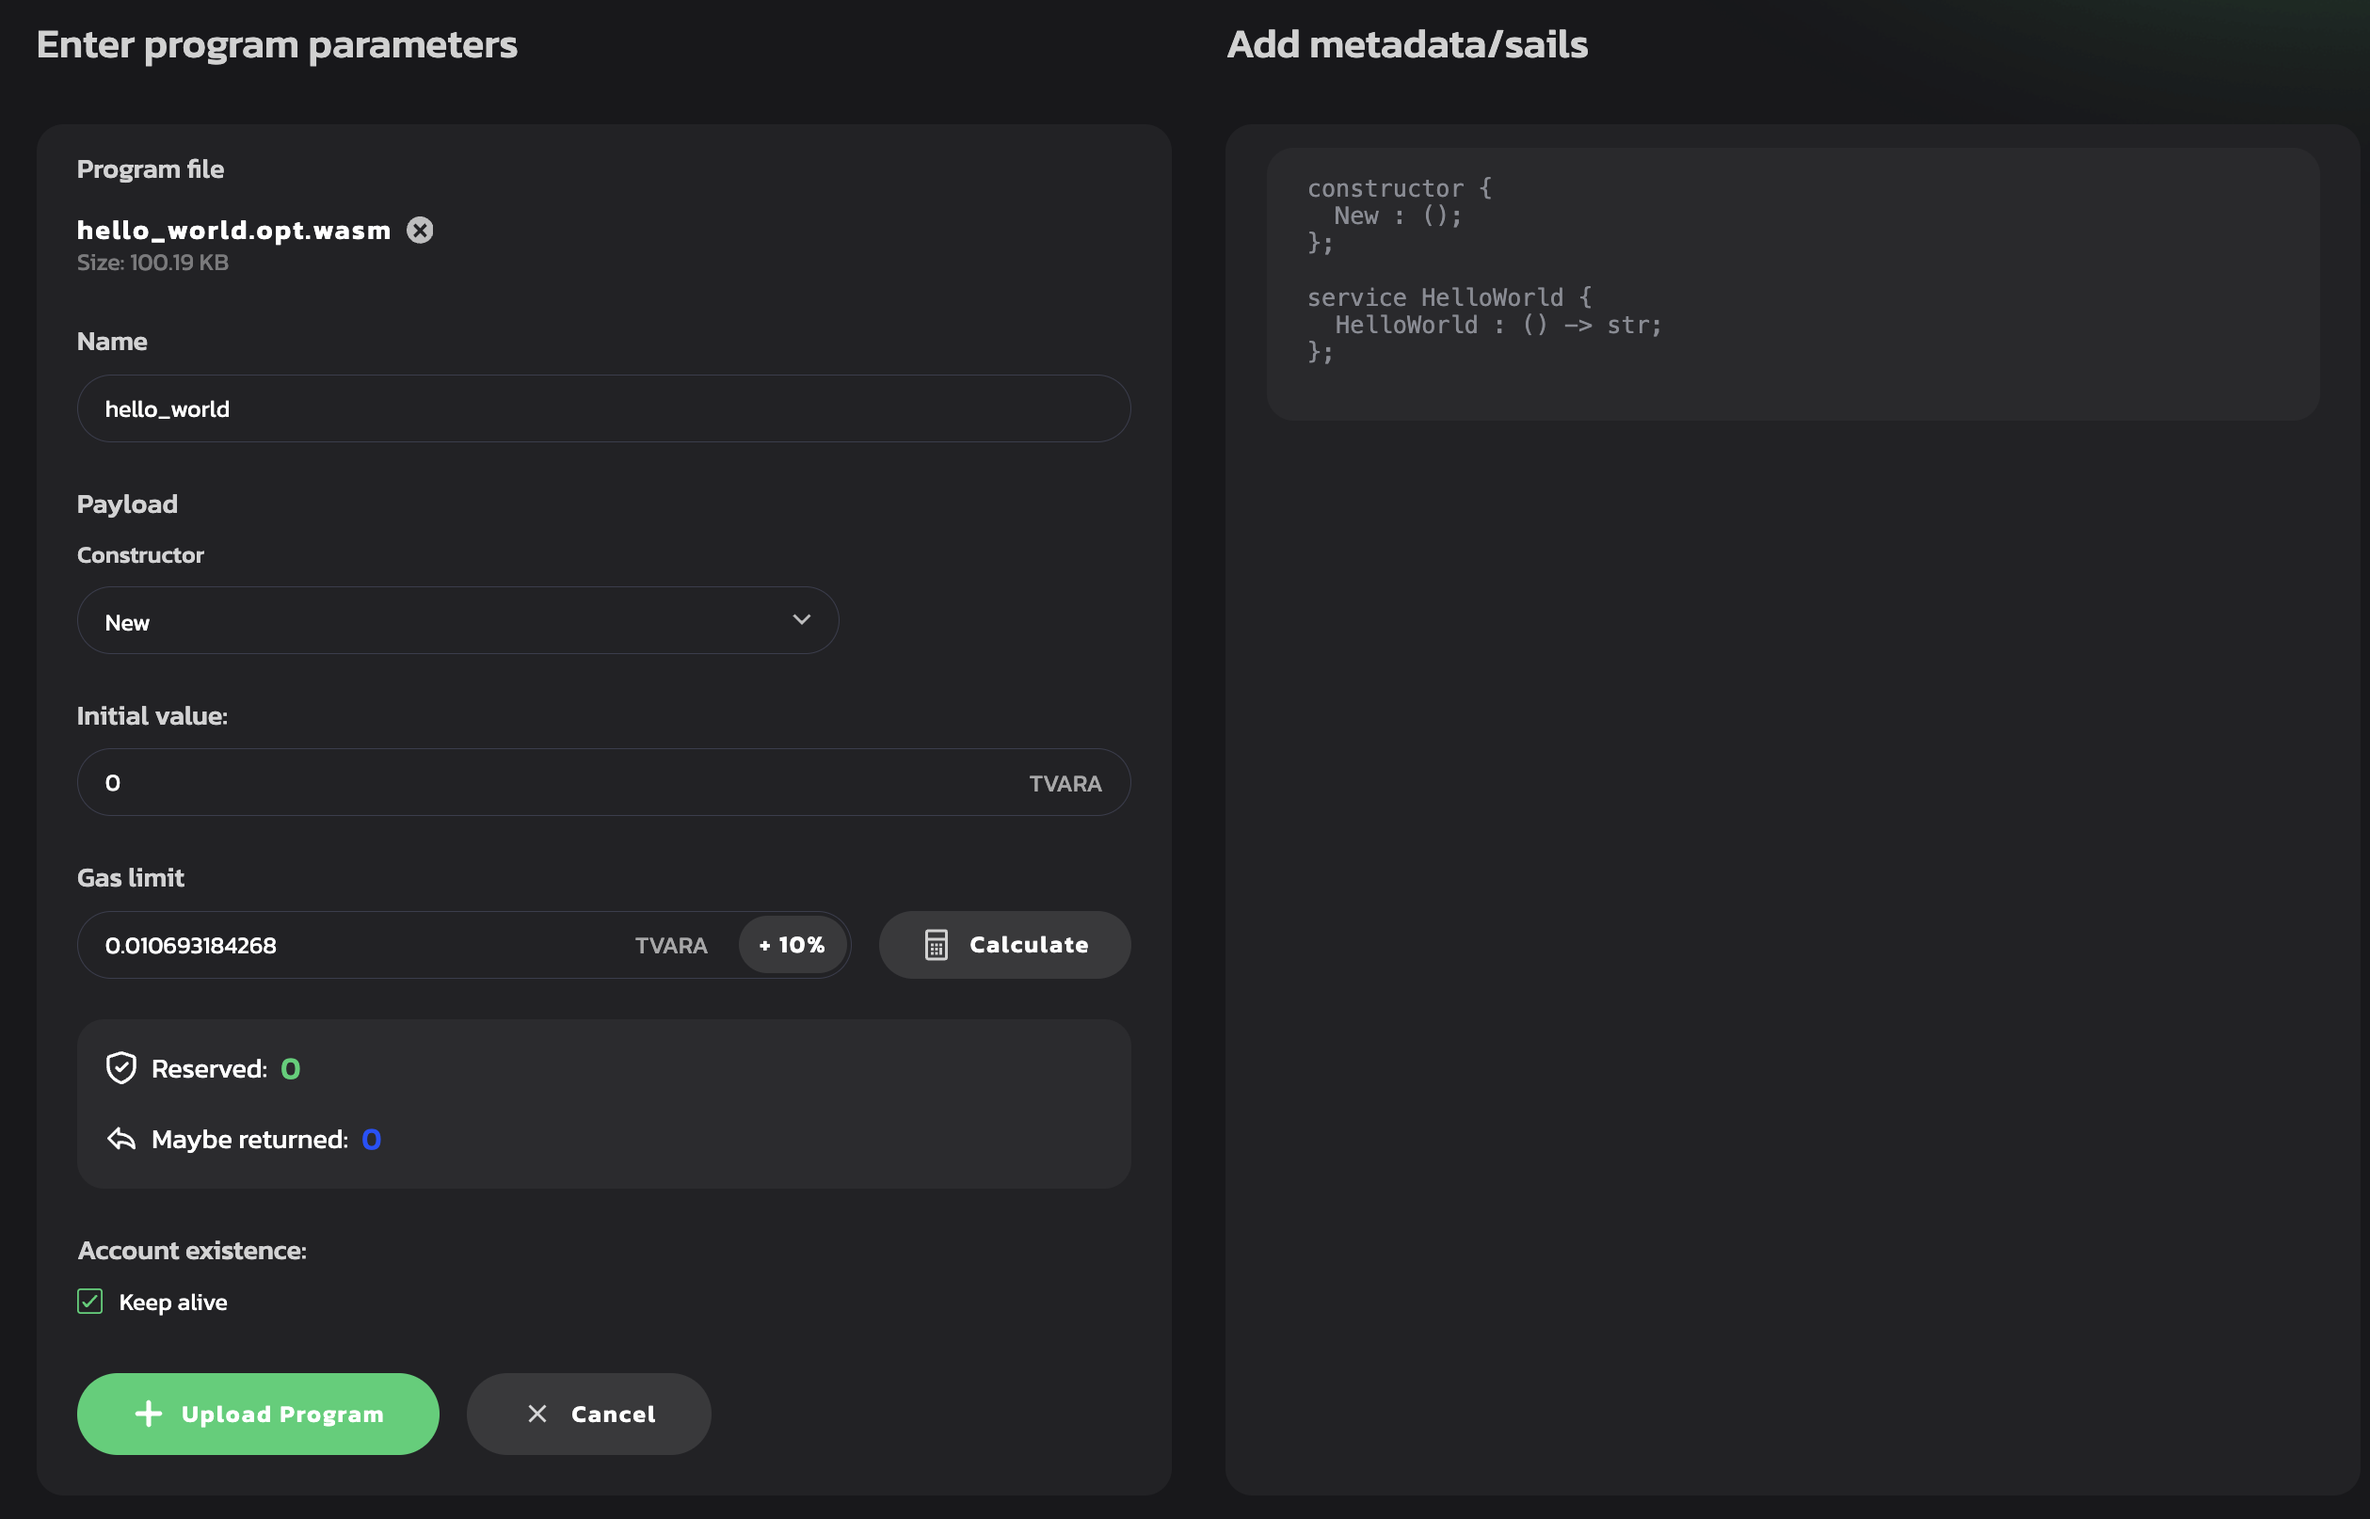
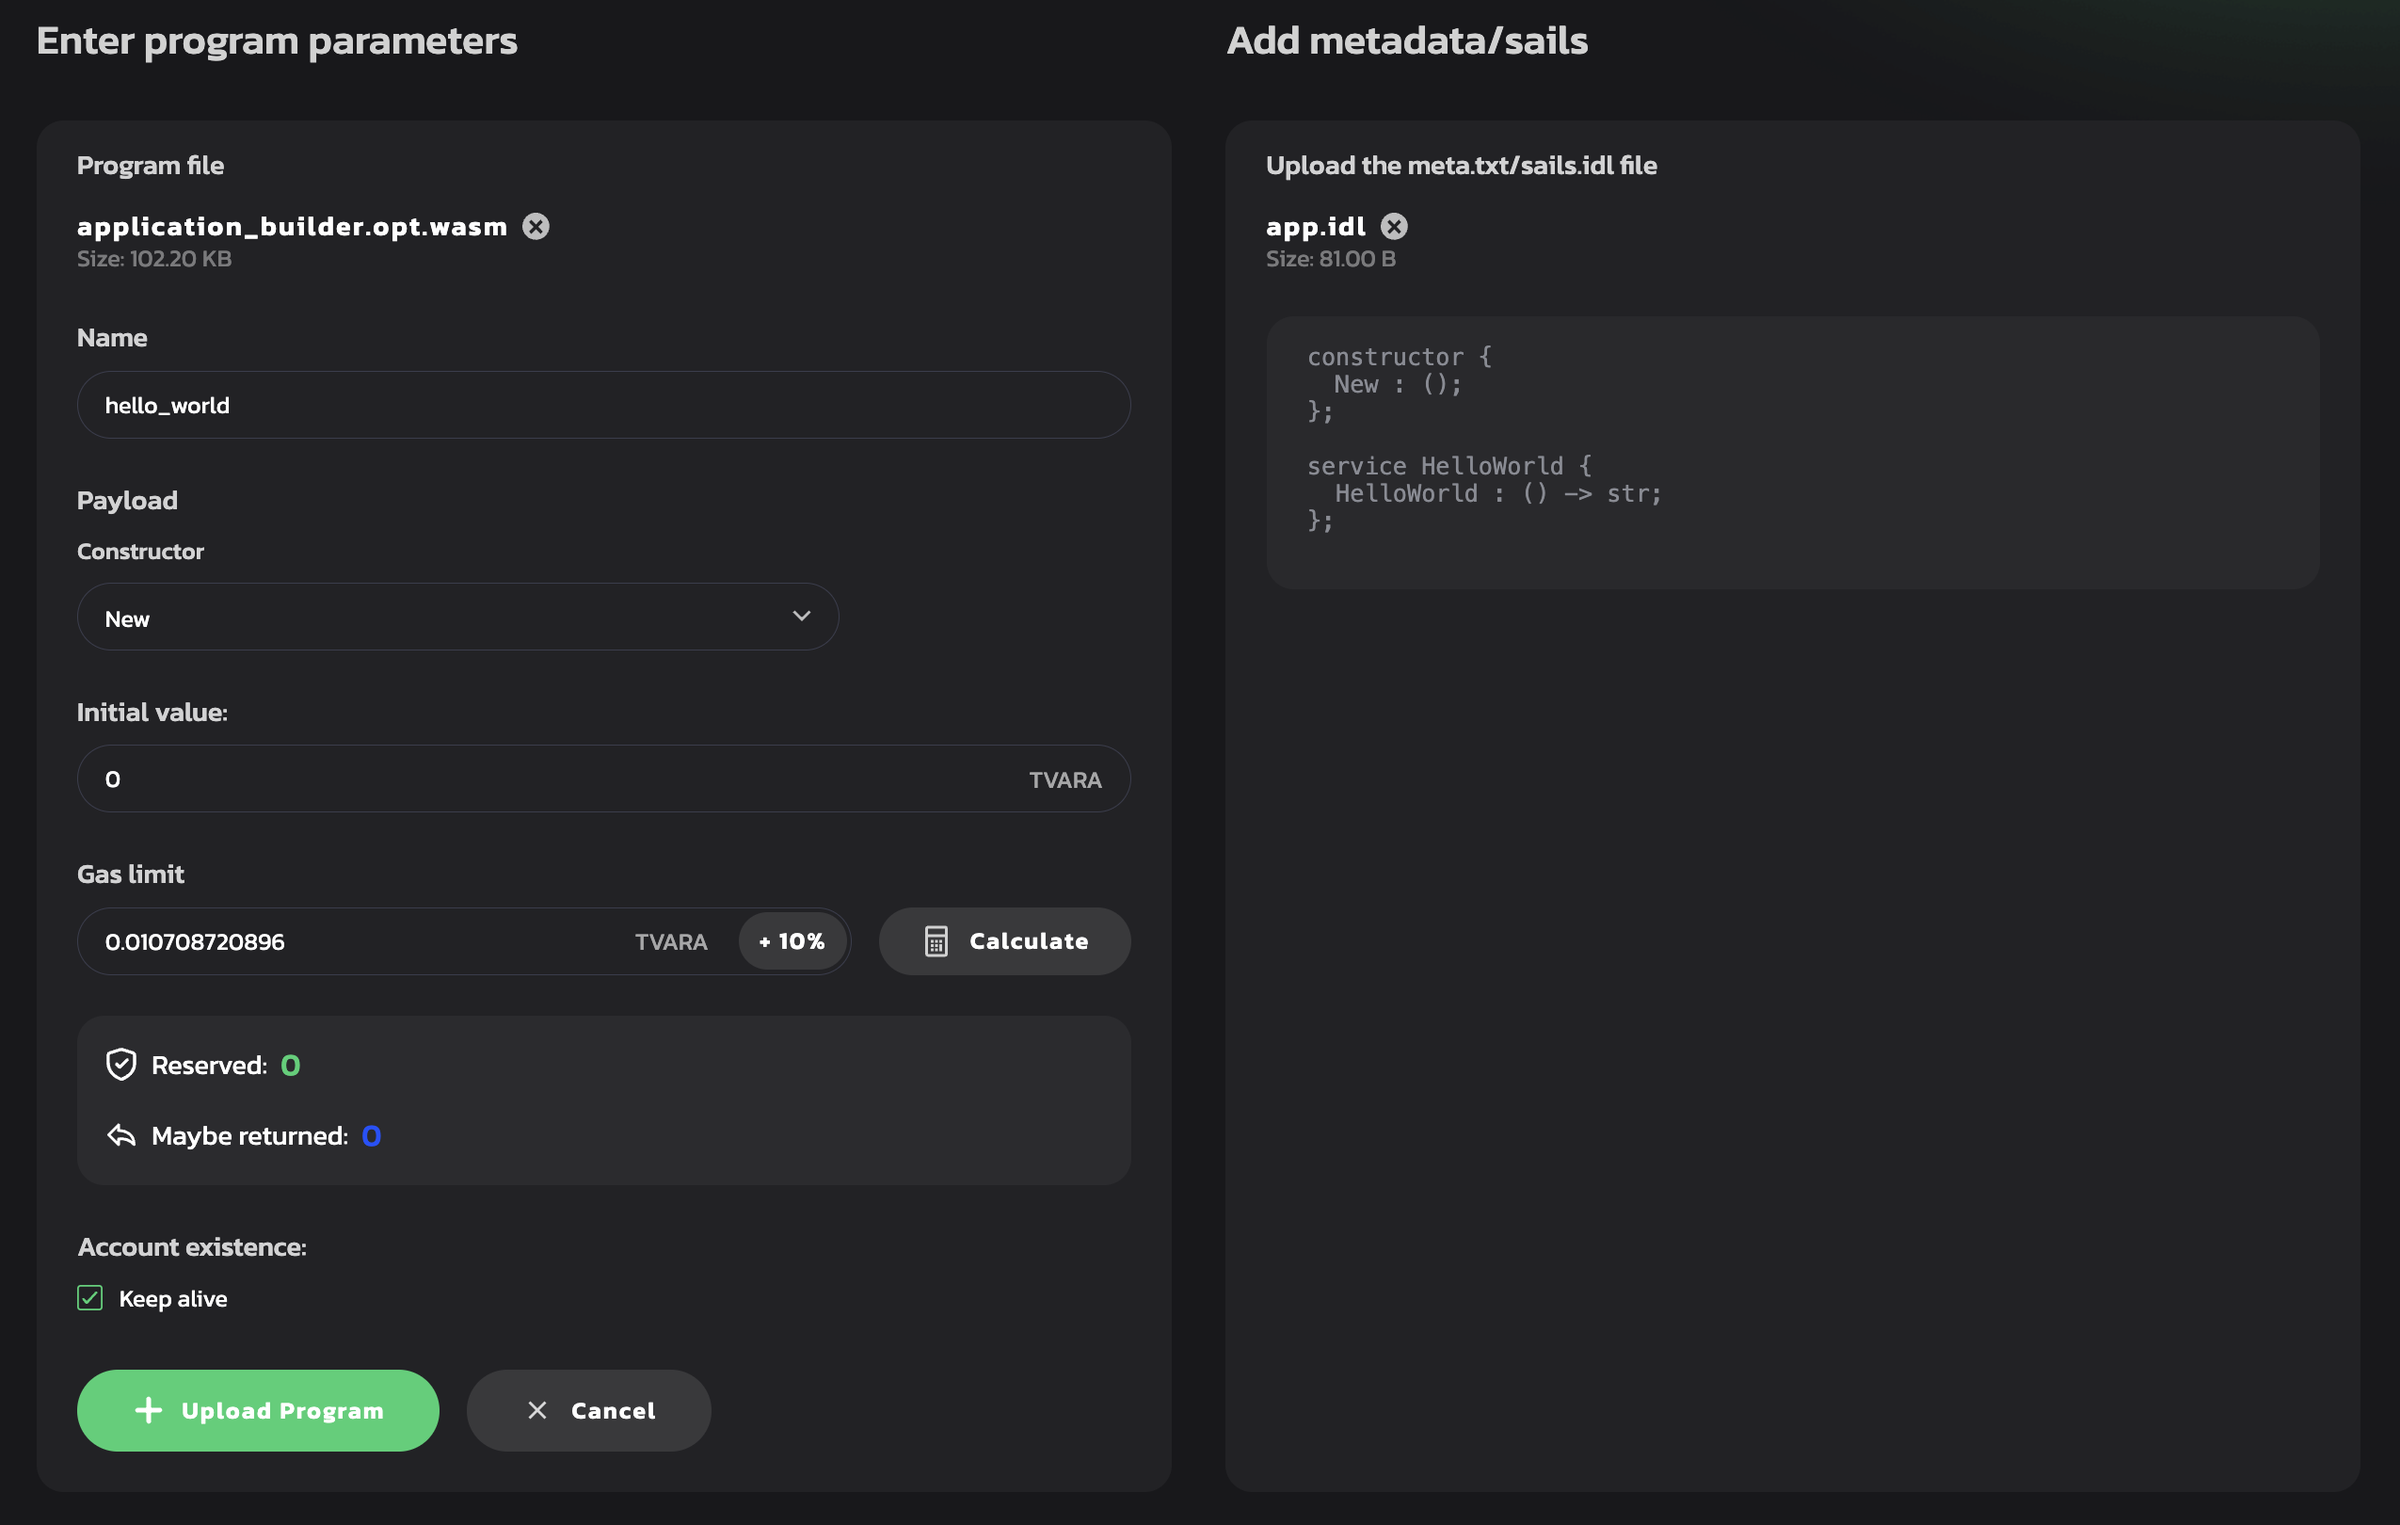
corrected Prerequisites and Upload program

diff --git a/docs/getting-started-in-5-minutes.md b/docs/getting-started-in-5-minutes.md
@@ -20,7 +20,7 @@ Don't miss this opportunity to become a pro Vara blockchain developer. Enroll no
     For example, on Ubuntu use:
 
     ```bash
-    sudo apt install -y build-essential clang cmake
+    sudo apt install -y build-essential clang cmake curl
     ```
 
     On macOS, you can get a compiler toolset by running:
@@ -45,7 +45,13 @@ Don't miss this opportunity to become a pro Vara blockchain developer. Enroll no
 
 ## Creating your first Vara program
 
-To create a program, use the following command to load the project template:
+To get started, install the cargo-gbuild tool using the following command:
+
+    ```bash
+    cargo install cargo-gbuild
+    ```
+
+After the installation, you can create a new Vara project named `hello_world` by running:
 
     ```bash
     cargo-gbuild new hello_world
@@ -128,7 +134,7 @@ This Rust code defines a simple **Hello, World!** program for the Vara Network. 
 The following code is needed to compile the project into WebAssembly and generate an **.idl** file for the program interface. It uses `gear_wasm_builder` to compile the code and the `sails_idl_gen` library to generate the **IDL** file.
 
     ```rust title="hello_world/wasm/build.rs"
-    use hello_world_app::Program;
+    use app::Program;
     use sails_idl_gen::program;
     use std::{env, path::PathBuf};
 
@@ -136,7 +142,7 @@ The following code is needed to compile the project into WebAssembly and generat
         gear_wasm_builder::build();
 
         program::generate_idl_to_file::<Program>(
-            PathBuf::from(env::var("CARGO_MANIFEST_DIR").unwrap()).join("hello_world.idl"),
+            PathBuf::from(env::var("CARGO_MANIFEST_DIR").unwrap()).join("app.idl"),
         )
         .unwrap();
     }
@@ -157,17 +163,17 @@ If everything is executed successfully, your working directory should now contai
         ├── ...
         └── wasm32-unknown-unknown
             └── release
-                ├── hello_world.wasm       <---- this is our built .wasm file
-                └── hello_world.opt.wasm   <---- this is optimized .wasm file
+                ├── application_builder.wasm       <---- this is our built .wasm file
+                └── application_builder.opt.wasm   <---- this is optimized .wasm file
     ```
 
-- `hello_world.wasm` is the output Wasm binary built from source files
-- `hello_world.opt.wasm` is the optimized Wasm aimed to be uploaded to the blockchain  
+- `application_builder.wasm` is the output Wasm binary built from source files
+- `application_builder.opt.wasm` is the optimized Wasm aimed to be uploaded to the blockchain  
 (Optimization include reducing the file size and improving performance)
 
-In addition, the interface file `hello_world.idl` should have been generated in the `wasm` project directory.
+In addition, the interface file `app.idl` should have been generated in the `wasm` project directory.
 
-    ```idl title="hello_world/wasm/hello_world.idl"
+    ```idl title="hello_world/wasm/app.idl"
     constructor {
       New : ();
     };
@@ -223,24 +229,28 @@ Gear provides an application for developers (Gear Idea) that implements all of t
 
 ### Upload program
 
-1. When your account balance is sufficient, click the <kbd>Upload program</kbd> and navigate to the `.opt.wasm` file we have pointed to above.
+1. When your account balance is sufficient, click the <kbd>Upload program</kbd>  button to open a popup window for uploading your new program.
 
     ![Upload program button](/assets/getting-started/upload.png)
 
-2. Click the <kbd>Select file</kbd> and navigate to the `.idl` file we have pointed to above. 
+2. In the popup, click the <kbd>Select file</kbd> button and navigate to the `.opt.wasm` file we have pointed to above
+
+    ![Upload new program](/assets/getting-started/upload-new-program.png)
+
+3. After uploading the program, you need to upload the IDL file. Click the <kbd>Select file</kbd> button and navigate to the .idl file referenced earlier.
 
     ![Upload idl button](/assets/getting-started/add_idl.png)
 
-3. Specify the program Name and click <kbd>Calculate Gas</kbd> button. The Gas limit will be set automatically.  
+4. Specify the program Name and click <kbd>Calculate Gas</kbd> button. The Gas limit will be set automatically.  
 Now click the <kbd>Upload program</kbd> button.
 
     ![Upload program form](/assets/getting-started/interface.png)
 
-4. Sign the program uploading transaction to Vara. Also, sign the program and metadata upload to the Gear Idea portal so you could work with the program. It is recommended to set the checkbox `Remember my password for the next 15 minutes` for your convenience.
+5. Sign the program uploading transaction to Vara. Also, sign the program and metadata upload to the Gear Idea portal so you could work with the program. It is recommended to set the checkbox `Remember my password for the next 15 minutes` for your convenience.
 
     ![Sign transaction](/assets/getting-started/sign-transaction.png)
 
-5. Once your program is uploaded, head to the `Programs` section and find your program.
+6. Once your program is uploaded, head to the `Programs` section and find your program.
 
     ![Recently uploaded programs](/assets/getting-started/recent.png)
 
